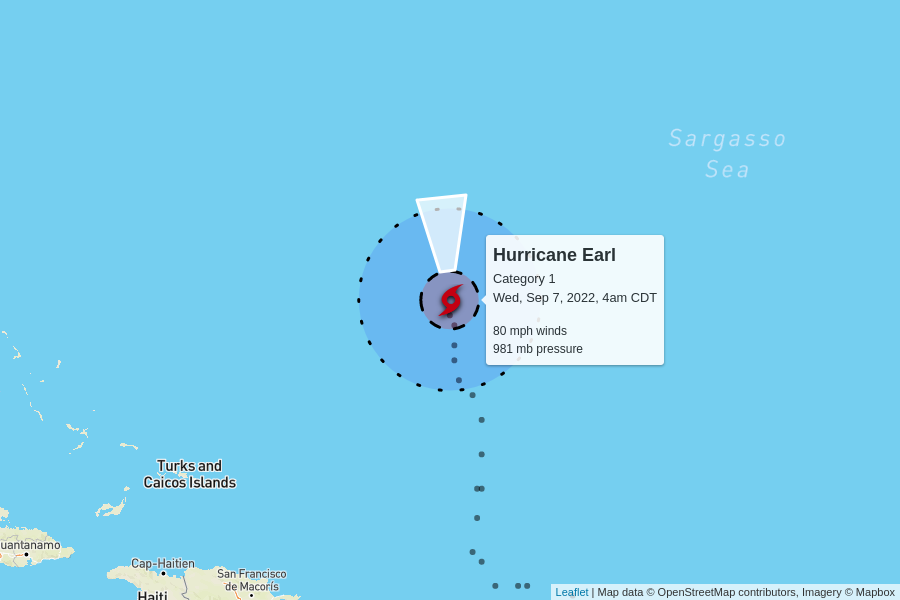
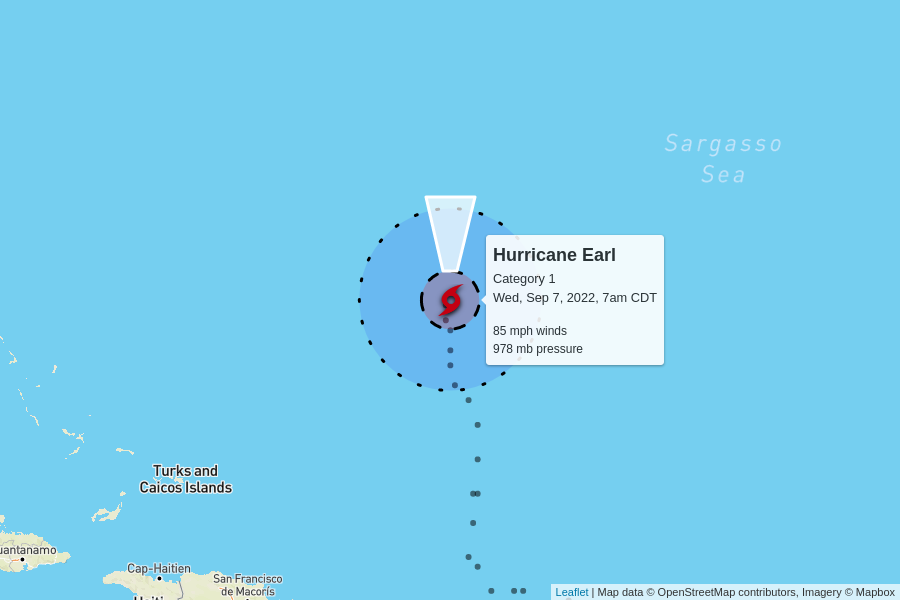
automatic update

diff --git a/docs/index.html b/docs/index.html
@@ -99,6 +99,50 @@
       <tr>
         <td colspan="6" class="storm category-1" >
           <h2>
+            Hurricane Earl - Category 1
+            <p class="updated">last updated <span data-time>2022-09-07T12:00:00.000Z</span></p>
+          </h2>
+        </td>
+      </tr>
+      
+      <tr>
+        <th class="spacer"></th>
+        <th>wind speed</th>
+        <th>central pressure</th>
+        <th>movement</th>
+        <th>data (CSV)</th>
+        <th>National Hurricane Center</th>
+      </tr>
+      <tr>
+        <td class="spacer"></td>
+        <td>85 mph</td>
+        <td>978 mb</td>
+        <td>
+          6 mph to the north
+          <br/>
+          <span style="display: inline-block; font-size: 1.5em; transform: rotate(360deg);">↑</span>
+        </td>
+        <td><a href="https://raw.githubusercontent.com/mgwalker/atlantic-hurricanes/main/data/csv/AL062022.csv">AL062022.csv</a></td>
+        <td><a href="https://www.nhc.noaa.gov/archive/2022/EARL.shtml?">NHC advisories</a></td>
+      </tr>
+      <tr id="storm_AL062022" >
+        <td class="spacer">
+        <td colspan="5">
+          <figure>
+            <img src="AL062022.png">
+            <figcaption>
+              Map data &copy; <a href="https://www.openstreetmap.org/copyright">OpenStreetMap</a> contributors,
+              Imagery &copy; <a href="https://www.mapbox.com/">Mapbox</a> |
+              <a href="https://www.mapbox.com/map-feedback/" target="_blank">Improve this map</a>
+            </figcaption>
+          </figure>
+        </td>
+      </tr>
+      
+
+      <tr>
+        <td colspan="6" class="storm category-1" >
+          <h2>
             Hurricane Danielle - Category 1
             <p class="updated">last updated <span data-time>2022-09-07T09:00:00.000Z</span></p>
           </h2>
@@ -130,50 +174,6 @@
         <td colspan="5">
           <figure>
             <img src="AL052022.png">
-            <figcaption>
-              Map data &copy; <a href="https://www.openstreetmap.org/copyright">OpenStreetMap</a> contributors,
-              Imagery &copy; <a href="https://www.mapbox.com/">Mapbox</a> |
-              <a href="https://www.mapbox.com/map-feedback/" target="_blank">Improve this map</a>
-            </figcaption>
-          </figure>
-        </td>
-      </tr>
-      
-
-      <tr>
-        <td colspan="6" class="storm category-1" >
-          <h2>
-            Hurricane Earl - Category 1
-            <p class="updated">last updated <span data-time>2022-09-07T09:00:00.000Z</span></p>
-          </h2>
-        </td>
-      </tr>
-      
-      <tr>
-        <th class="spacer"></th>
-        <th>wind speed</th>
-        <th>central pressure</th>
-        <th>movement</th>
-        <th>data (CSV)</th>
-        <th>National Hurricane Center</th>
-      </tr>
-      <tr>
-        <td class="spacer"></td>
-        <td>80 mph</td>
-        <td>981 mb</td>
-        <td>
-          6 mph to the north
-          <br/>
-          <span style="display: inline-block; font-size: 1.5em; transform: rotate(355deg);">↑</span>
-        </td>
-        <td><a href="https://raw.githubusercontent.com/mgwalker/atlantic-hurricanes/main/data/csv/AL062022.csv">AL062022.csv</a></td>
-        <td><a href="https://www.nhc.noaa.gov/archive/2022/EARL.shtml?">NHC advisories</a></td>
-      </tr>
-      <tr id="storm_AL062022" >
-        <td class="spacer">
-        <td colspan="5">
-          <figure>
-            <img src="AL062022.png">
             <figcaption>
               Map data &copy; <a href="https://www.openstreetmap.org/copyright">OpenStreetMap</a> contributors,
               Imagery &copy; <a href="https://www.mapbox.com/">Mapbox</a> |
